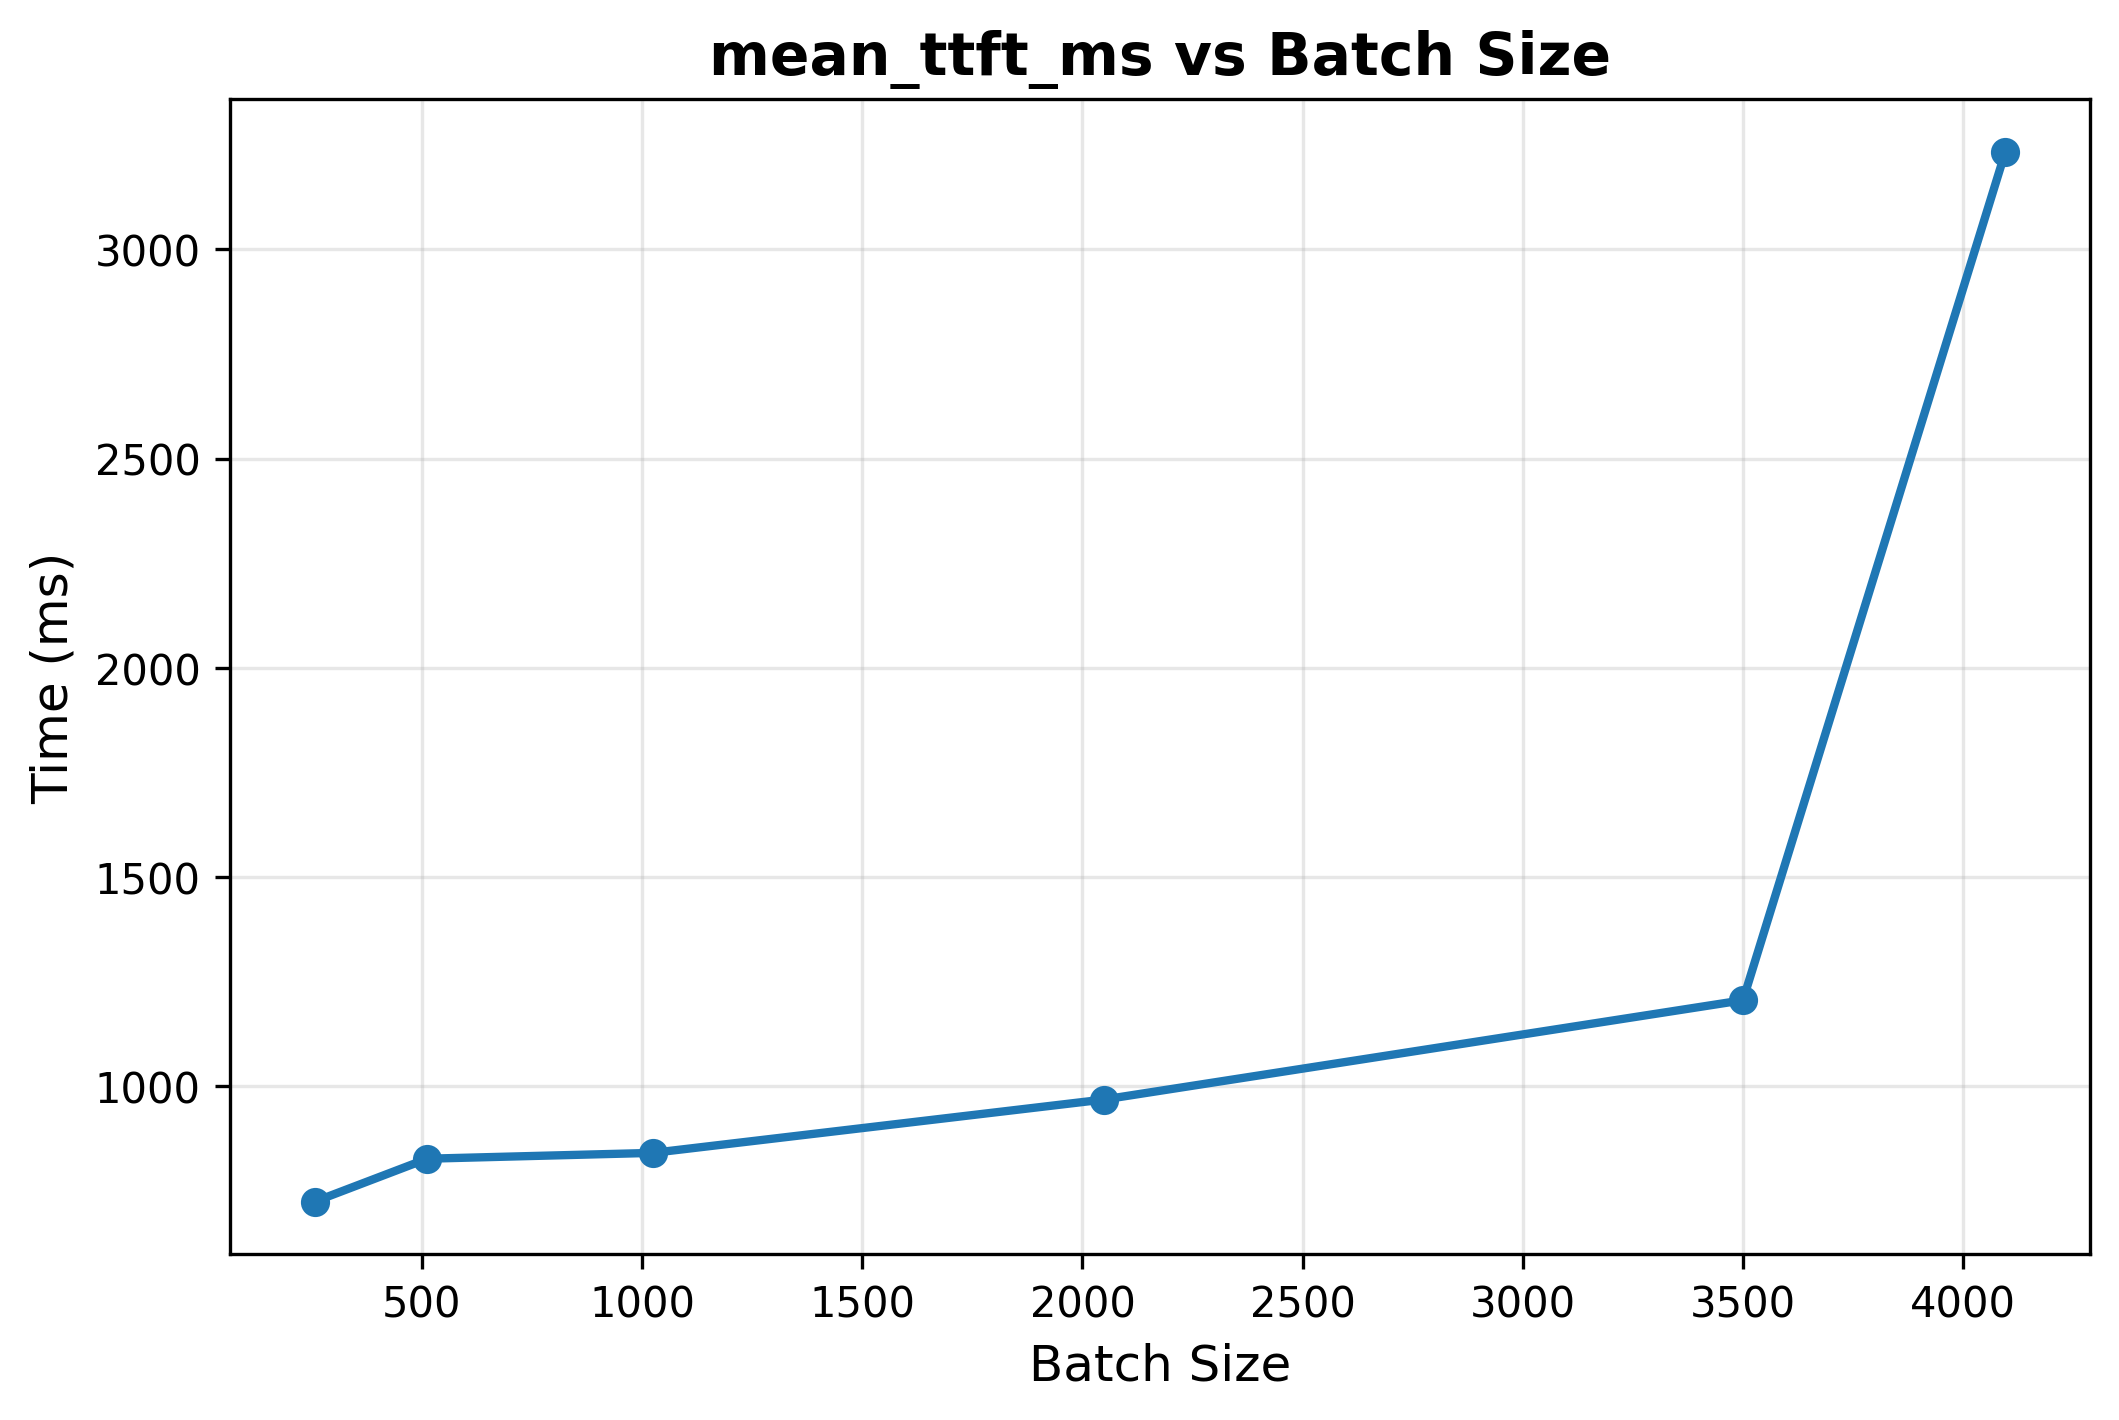
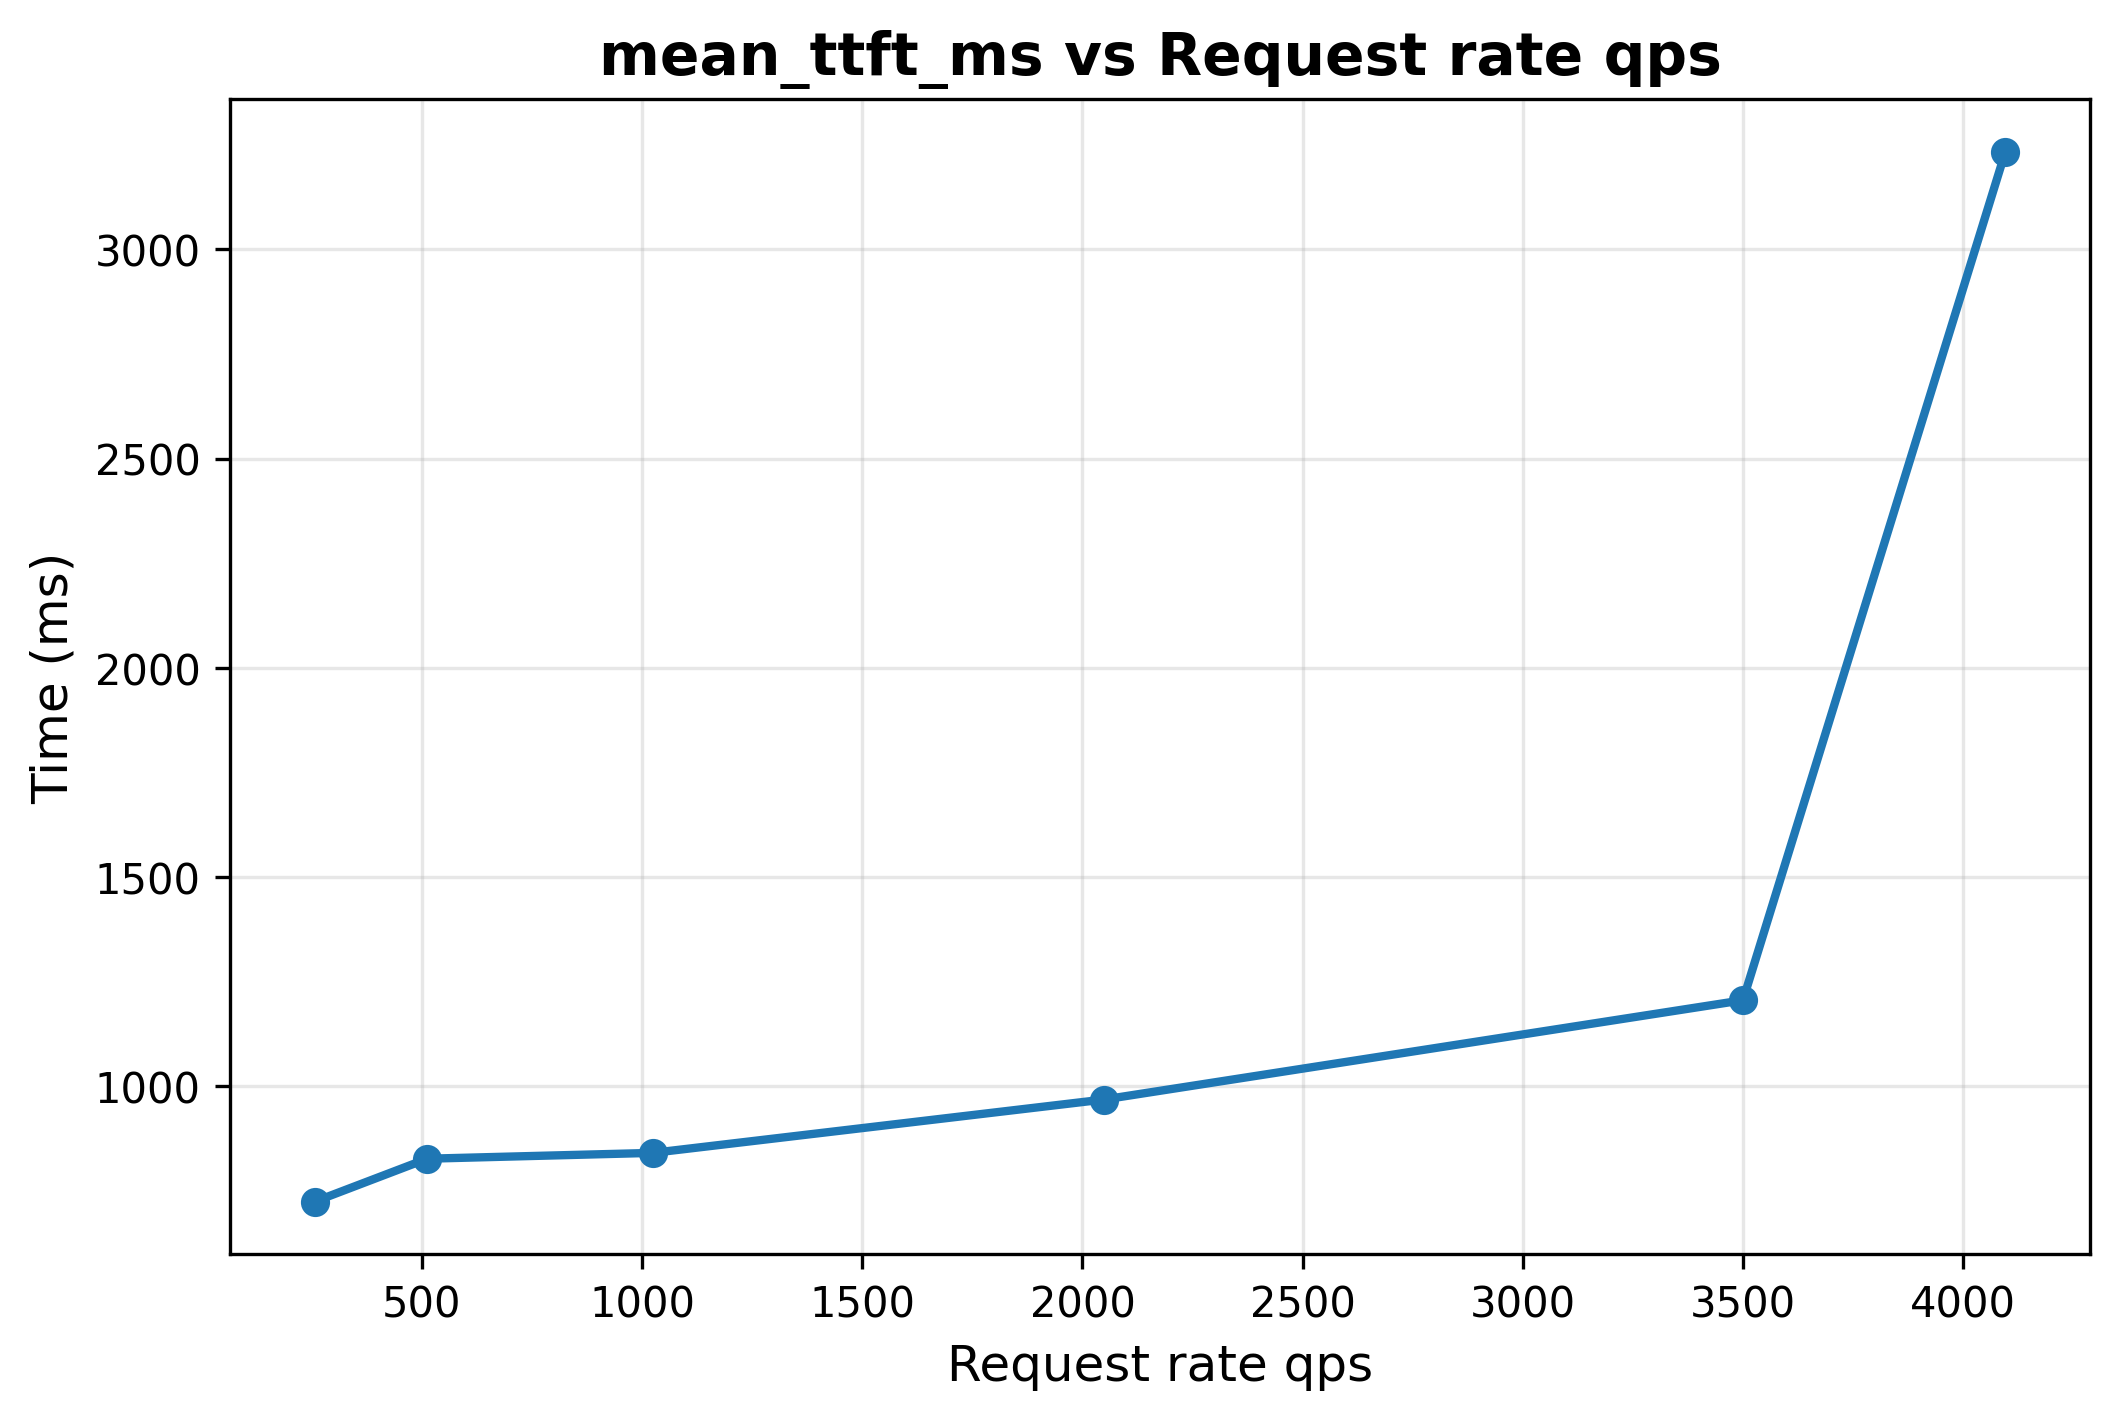
Edited label of visualizations

Changed region(s): [[0.2803, 0.0, 0.8098, 0.062], [0.4361, 0.9296, 0.6541, 0.9915]]

diff --git a/visualize_metrics.py b/visualize_metrics.py
@@ -18,24 +18,24 @@ for f in json_files:
     with open(os.path.join(directory_path, f), 'r') as file:
         data = json.load(file)
         if qps:
-            data['batch_size'] = qps
+            data['qps'] = qps
         dfs.append(pd.DataFrame([data]))
 
 if not dfs:
     raise ValueError(f"No JSON files found in {directory_path}")
 
 df = pd.concat(dfs, ignore_index=True) 
-df = df.sort_values('batch_size').reset_index(drop=True)
+df = df.sort_values('qps').reset_index(drop=True)
 
 #Create plots for columns p99_ttft_ms, mean_ttft_ms, p99_tpot_ms, mean_tpot_ms
 plot_columns = ["p99_ttft_ms", "mean_ttft_ms", "p99_tpot_ms", "mean_tpot_ms","p95_ttft_ms","p95_tpot_ms","mean_itl_ms","p99_itl_ms","p95_itl_ms"]
 
 for col in plot_columns:
     plt.figure(figsize=(8, 5))
-    plt.plot(df["batch_size"], df[col], marker='o', linewidth=2)
-    plt.xlabel('Batch Size', fontsize=12)
+    plt.plot(df["qps"], df[col], marker='o', linewidth=2)
+    plt.xlabel('Request rate qps', fontsize=12)
     plt.ylabel('Time (ms)', fontsize=12)
-    plt.title(f'{col} vs Batch Size', fontsize=14, fontweight='bold')
+    plt.title(f'{col} vs Request rate qps', fontsize=14, fontweight='bold')
     plt.grid(True, alpha=0.3)
     plt.savefig(f"{directory_path}/{col}_plot.png", dpi=300, bbox_inches='tight')
     plt.show()
